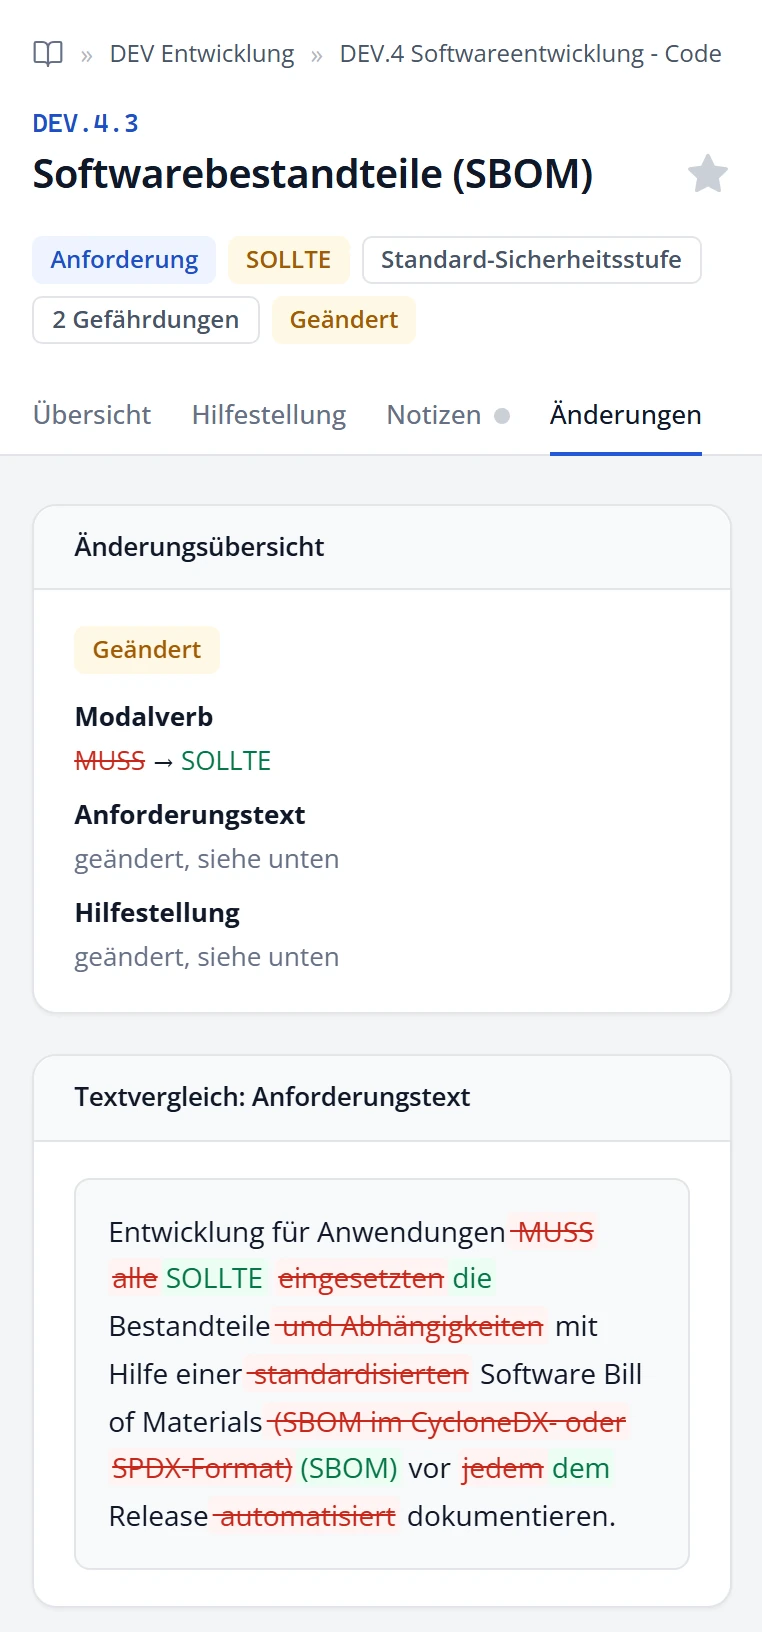
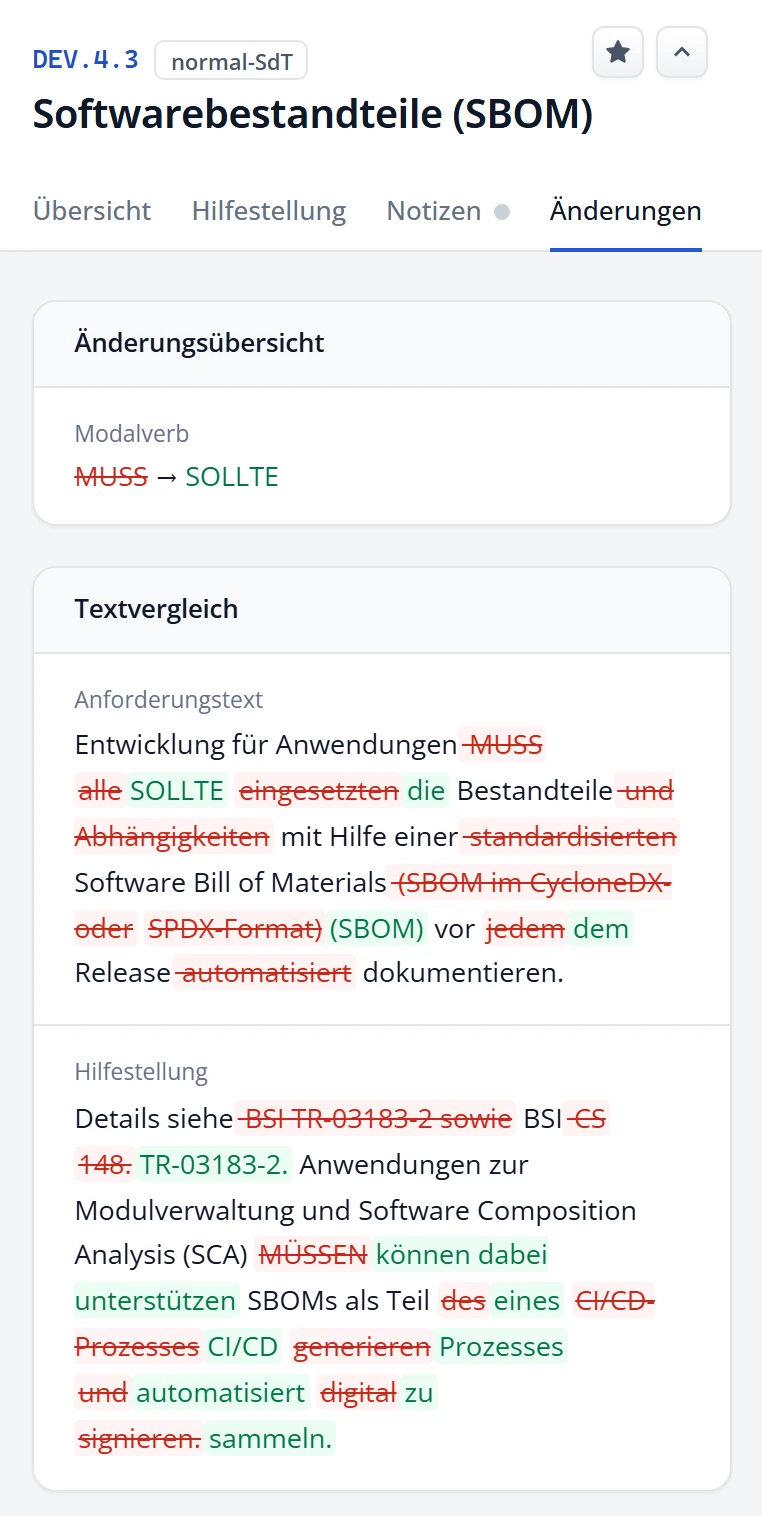
Update screenshot dimensions and adjust related references in release scripts

diff --git a/www/index.html b/www/index.html
@@ -240,7 +240,7 @@
           <div class="split-media narrow">
             <div class="frame">
               <button class="shot-btn" type="button" aria-label="Screenshot vergrößern">
-                <img src="media/screens/detail-notizen.webp" width="762" height="786" loading="lazy"
+                <img src="media/screens/detail-notizen.webp" width="762" height="810" loading="lazy"
                      alt="Reiter Notizen in der Detailansicht einer Anforderung" />
               </button>
             </div>
@@ -264,7 +264,7 @@
           <div class="split-media narrow">
             <div class="frame">
               <button class="shot-btn" type="button" aria-label="Screenshot vergrößern">
-                <img src="media/screens/detail-aenderungen.webp" width="762" height="1632" loading="lazy"
+                <img src="media/screens/detail-aenderungen.webp" width="762" height="1516" loading="lazy"
                      alt="Reiter Änderungen der Anforderung DEV.4.3 mit Modalverb-Änderung von MUSS zu SOLLTE und Wort-für-Wort-Textvergleich" />
               </button>
             </div>

diff --git a/scripts/release/project/scenes.py b/scripts/release/project/scenes.py
@@ -1,7 +1,7 @@
 # SPDX-FileCopyrightText: 2026 Frank Winter
 # SPDX-License-Identifier: MIT
 """
-Szenen für die Screenshots der Website (projektspezifisch, für steps/50-screenshots.py).
+Szenen für die Screenshots der Website (projektspezifisch, für steps/40-screenshots.py).
 
 Eine Szene stellt einen Zustand der App her und liefert den Ausschnitt als PNG. Jede Szene beginnt in einem
 frischen Browserkontext, schreibt ihre Testdaten direkt in die IndexedDB der App (über js/storage.js) und lädt neu;
@@ -256,7 +256,7 @@ def website_detail_notizen(env):
     }
     with website(env, viewport={"width": 1280, "height": 800}, scale=2, settings=settings) as s:
         s.page.click("#tab-notes")
-        s.page.wait_for_selector(".notes-panel")
+        s.page.wait_for_selector(".notes-text")
         s.settle()
         detail = s.box("#detail-pane")
         note = s.box(".notes-text")
@@ -265,7 +265,7 @@ def website_detail_notizen(env):
         )
 
 
-# Reiter „Änderungen“ von DEV.4.3 im Vergleich mit der Vergleichsversion, bis unter den Textvergleich
+# Reiter „Änderungen“ von DEV.4.3 im Vergleich mit der Vergleichsversion, Kopf eingeklappt, bis unter den Textvergleich
 def website_detail_aenderungen(env):
     settings = {
         "comparison_catalog_id": COMPARISON_ID,
@@ -275,6 +275,9 @@ def website_detail_aenderungen(env):
     with website(env, viewport={"width": 1280, "height": 1200}, scale=2, settings=settings) as s:
         s.page.click("#tab-diff")
         s.page.wait_for_selector("#detail-tabpanel .stack > .card")
+        # Kopf einklappen: Pfadleiste und Hinweise ausblenden
+        s.page.click(".detail-head-toggle")
+        s.page.wait_for_selector('.detail-head-toggle[aria-expanded="false"]')
         s.settle()
         detail = s.box("#detail-pane")
         card = s.box("#detail-tabpanel .stack > .card:nth-of-type(2)")

diff --git a/scripts/release/steps/40-screenshots.py b/scripts/release/steps/40-screenshots.py
@@ -34,7 +34,7 @@ Konfiguration [screenshots]:
 Per Umgebung: RELEASE_SCREENSHOTS_URL=<Adresse>, RELEASE_SCREENSHOTS_ONLY=website,
 RELEASE_SCREENSHOTS_<NAME>_MANIFEST=<Pfad>, RELEASE_SCREENSHOTS_<NAME>_OUT_DIR=<Ordner> (NAME = name des Auftrags).
 
-Aufruf:  python scripts/release/steps/50-screenshots.py
+Aufruf:  python scripts/release/steps/40-screenshots.py
 """
 
 from __future__ import annotations

diff --git a/scripts/release/README.md b/scripts/release/README.md
@@ -53,7 +53,7 @@ also auch alle anderen Änderungen darauf).
 | `10-version`      | Format der Version prüfen (sie steht nur im Changelog, `files` ist deshalb leer)  |
 | `20-changelog`    | Abschnitt „Unveröffentlicht“ abschließen; eine ältere Version wird abgelehnt      |
 | `30-security-txt` | `Expires` in `www/.well-known/security.txt` auf heute + 1 Jahr setzen             |
-| `50-screenshots`  | Screenshots der App nach `www/media/screens/manifest.json` aufnehmen              |
+| `40-screenshots`  | Screenshots der App nach `www/media/screens/manifest.json` aufnehmen              |
 
 Wie im App-Repo arbeitet `release.py` die Dateien `steps/NN-name.py` in Nummernfolge ab (wie `run-parts` unter
 Linux). Ein Schritt lässt sich einzeln aufrufen, abschalten (umbenennen, z. B. in `.py.off`) oder ergänzen; seine
